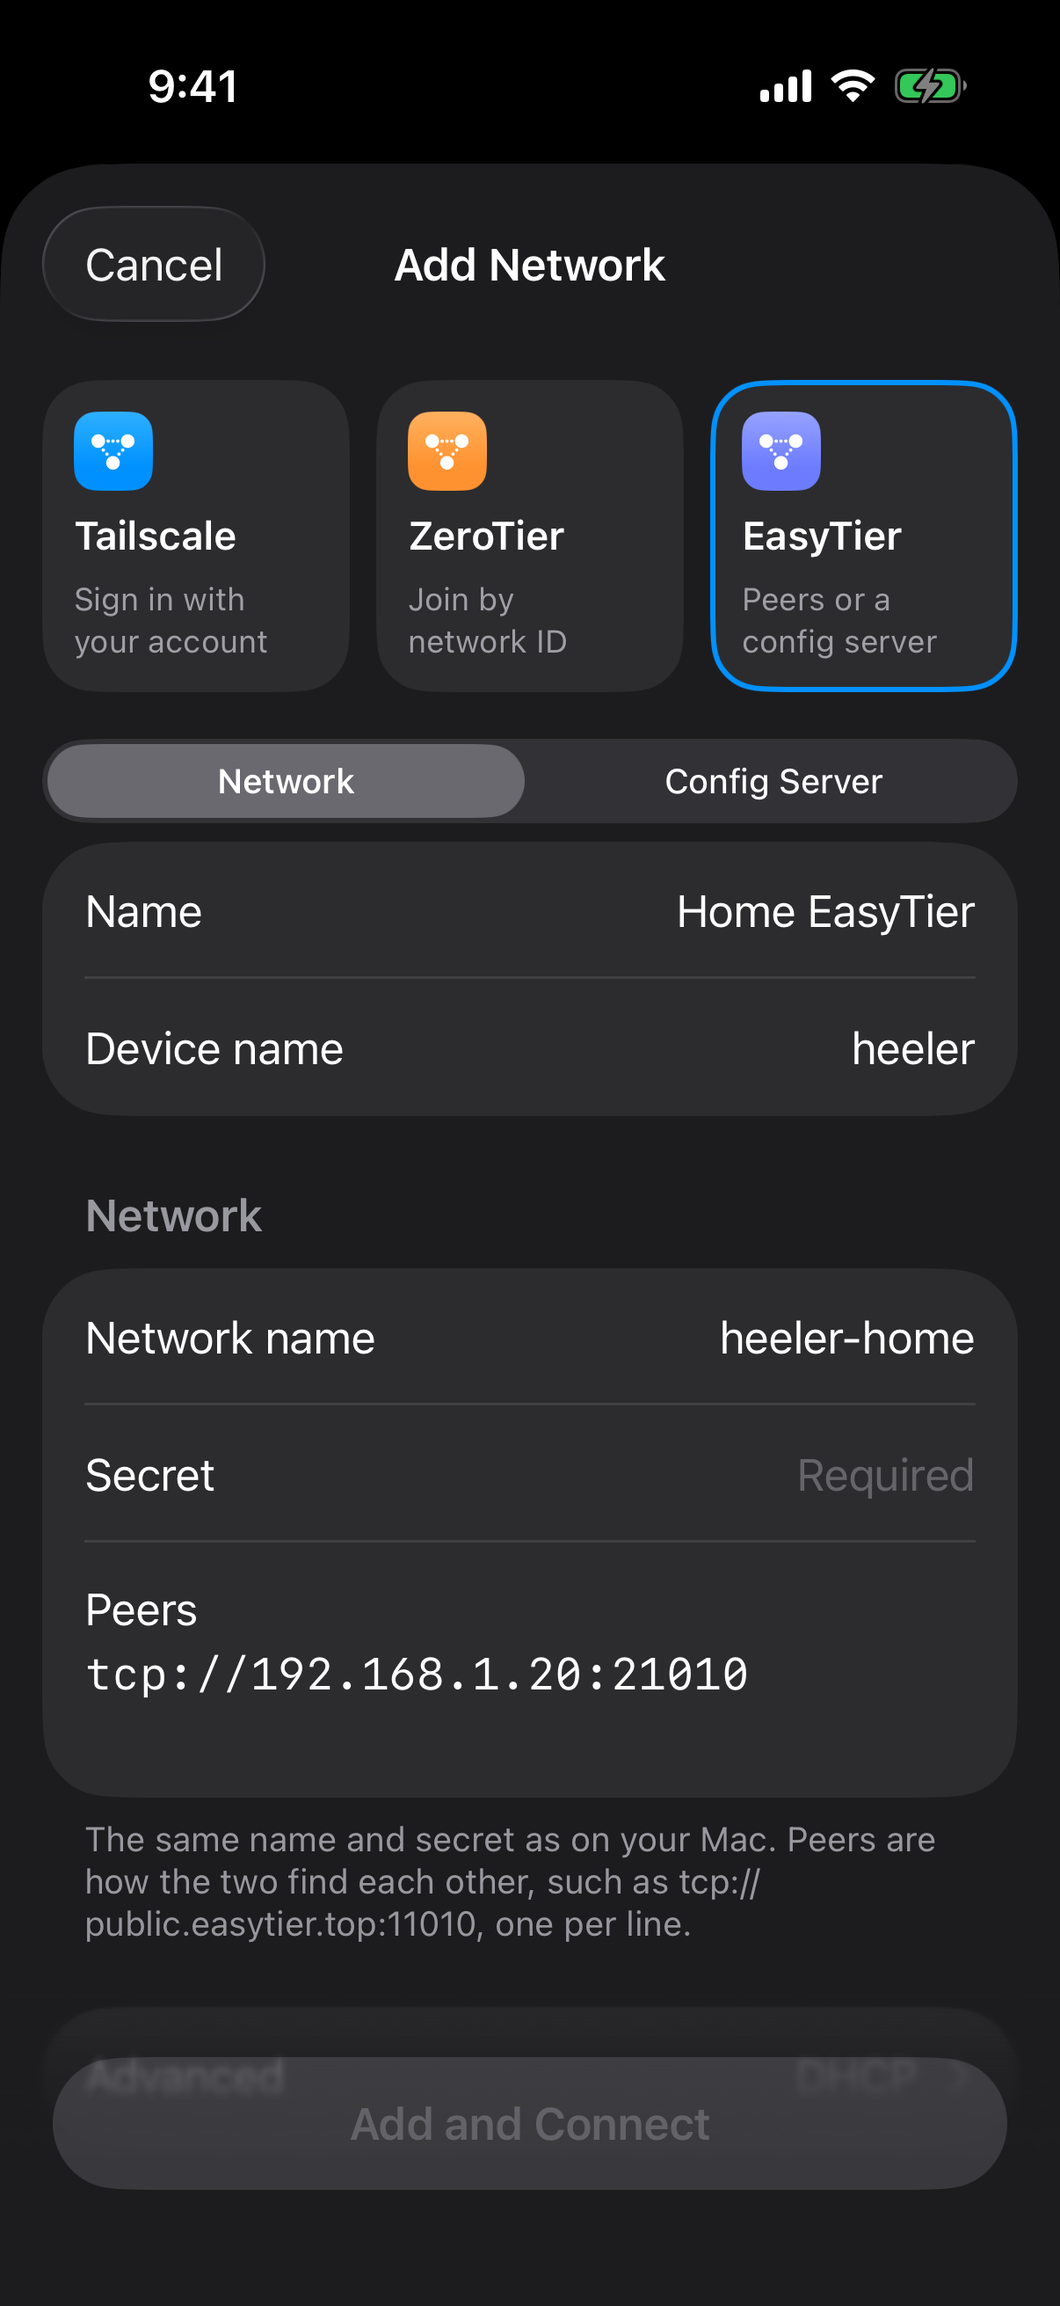
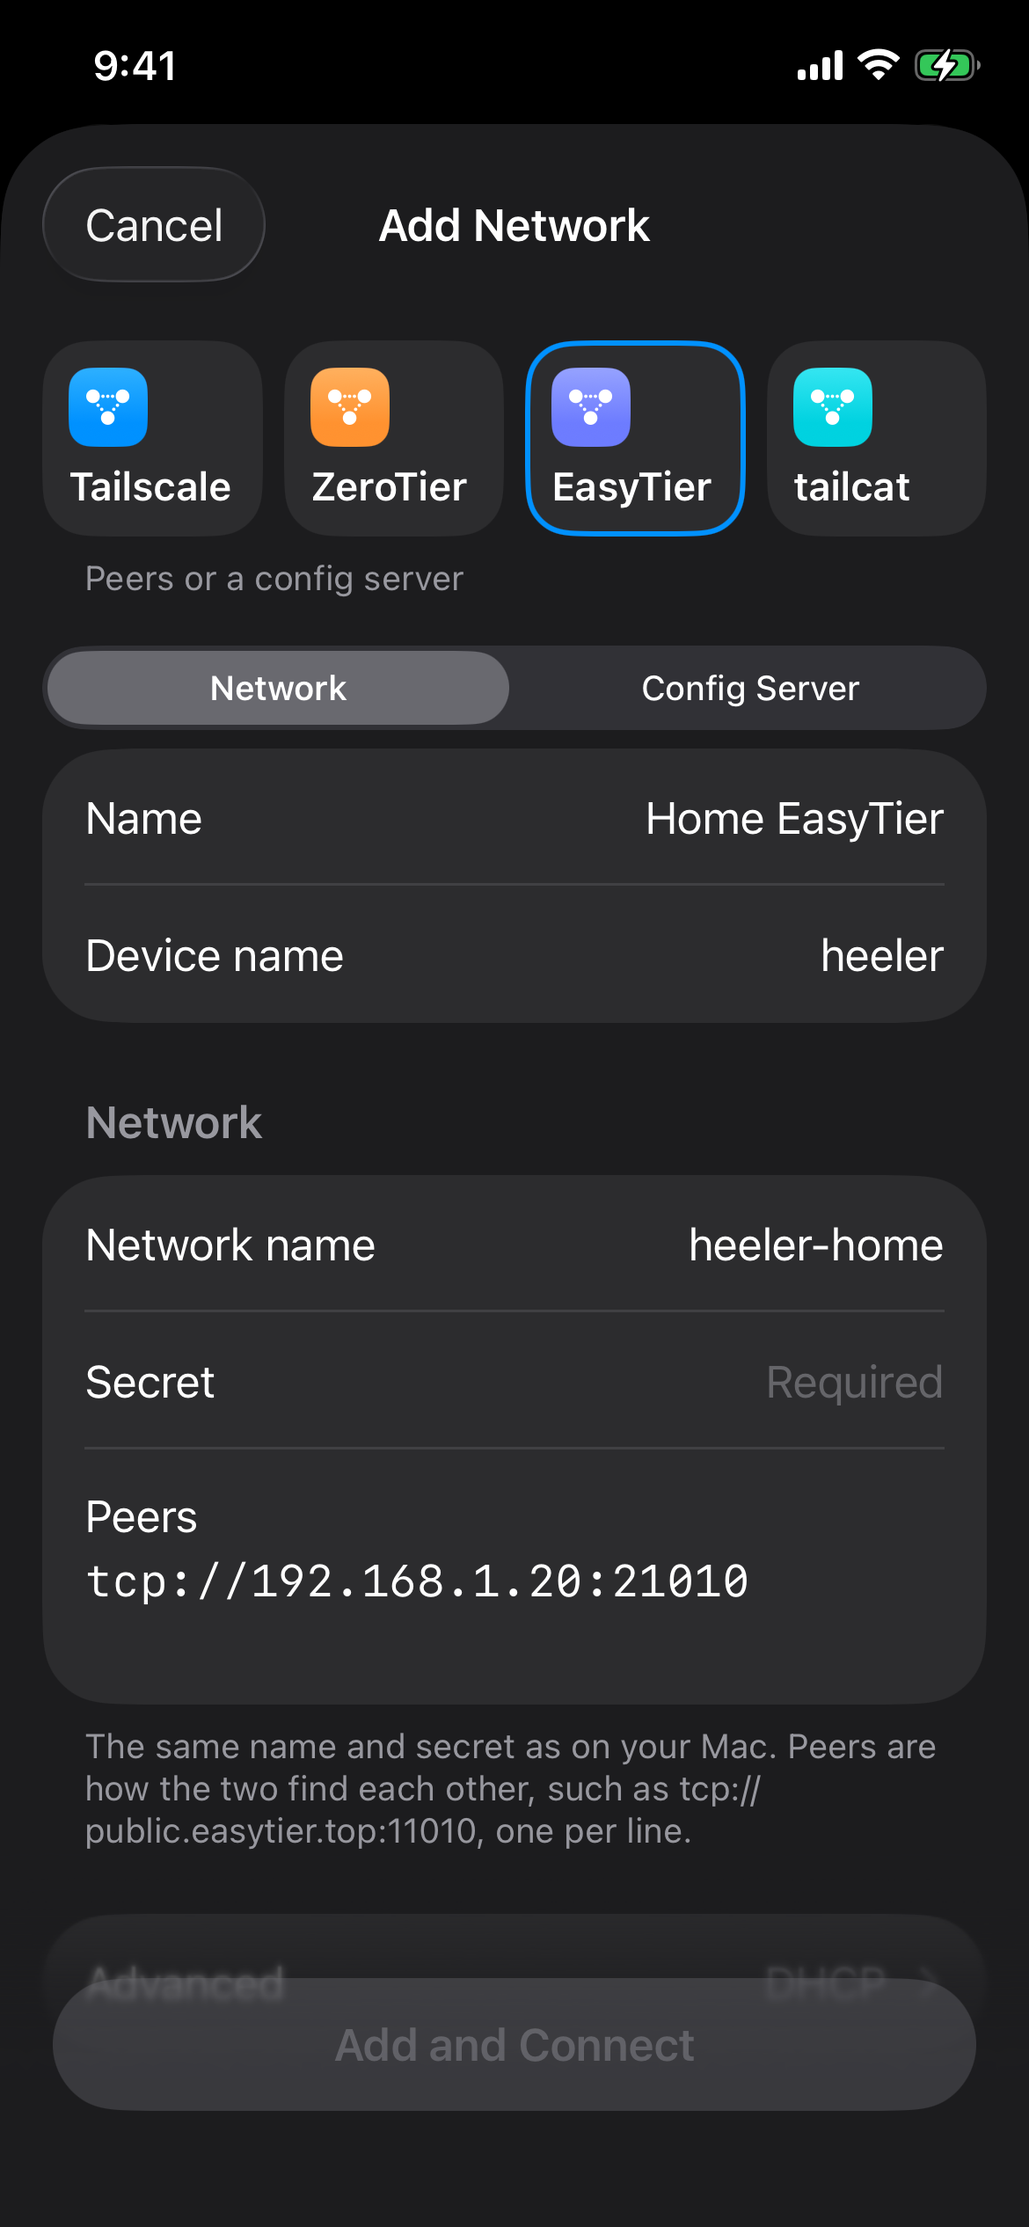
docs(guides): add a tailcat setup guide
The four existing Add Network screenshots are recaptured with the
picker's new single row of kinds, beside a new one of the tailcat form.

refs #716

diff --git a/docs/agents/overlay-network-guides.md b/docs/agents/overlay-network-guides.md
@@ -18,6 +18,7 @@ The tutorials were written on **2026-10-09** against PR #426 at `eb52bf0c`. The 
 | ZeroTier | Controller-less IPv6 ad-hoc network, Simulator SSH, herdr, terminal, recovery | Central enrollment, custom Planet and Moons, private controller, overlapping IPv4 |
 | EasyTier | Network and encrypted Config Server, Simulator SSH, herdr, terminal, peer restart | Physical phone, eight-network limit, overlapping assignments, WSS failures |
 | Cloudflare Tunnel | Physical iPhone over cellular: connector **Healthy**, a **Tunnel CIDR** route, Cloudflare One Agent with Split Tunnels in **Include** mode, a **Direct** Host route, herdr inventory and a terminal, background recovery | The VPS appendix, Gateway network policies, a route wider than one `/32`, two Hosts on one phone, the iPad, Cloudflare One Agent release drift |
+| tailcat | Simulator through a real `tailcat serve` on the same Mac: the Add Network form, a **Direct** path, Host onboarding from the tunnel's server row, SSH host-key trust, herdr detection, a terminal, background recovery, recovery after `tailcat serve` restarts | Physical phone, cellular, a relayed-only path, servers other than v0.7.0 |
 
 Tailscale commands were checked against official documentation and **1.104.1** CLI help on **2026-10-09**. ZeroTier's guide was checked against Heeler's source and its linked official documentation on the same date.
 
@@ -89,9 +90,55 @@ Not covered:
 - Cloudflare One Agent releases: one device, and no version number recorded, so
   treat the guide as a 2026-10-23 snapshot of that app's UI.
 
+### tailcat guide (2026-11-15)
+
+The [tailcat guide](../guides/tailcat.md) was written with the feature, for
+issue #716 on base `4025213b`, before any release carried it. Its address is a
+credential: keep real addresses out of logs, reports, screenshots and this
+record.
+
+Checked on an iPhone 17e Simulator (iOS 26.5) against `tailcat serve` built
+from the **v0.7.0** source on the same Mac, serving the port of an isolated
+sshd and herdr:
+
+- `tailcat genkey --key=default --fixed-region` saves a key, after which
+  `tailcat serve` prints `Server listening with saved key "default"` and the
+  same address on every start. `tailcat genkey --delete --key=default` removes
+  the key, and `genkey` then makes a new one.
+- A tunnel added through the Add Network form, its address typed on the
+  software keyboard, connected: **Relayed** at first, **Direct** with a
+  round-trip time seconds later. **Add** on its server row opened the Host
+  form with the address and network filled in. **Connect** asked to trust the
+  sshd's fingerprint under the tunnel's `.tailcat` name, detected herdr, and
+  added the Host.
+- A terminal on that Host ran a command and printed its output. With Heeler
+  behind the Settings app, the log showed the tailcat node stopping 19 seconds
+  later; back in front, the same terminal ran another command with nothing
+  tapped. (The Simulator's Home button did not background the app when
+  pressed through `idb`; launching another app did.)
+- With `tailcat serve` stopped, the Host went to **Reconnecting…** about 70
+  seconds later, when the SSH keepalive gave up, and showed "The tailcat
+  server did not answer". Started again with the same saved key, it was
+  **Connected** within 10 seconds, with nothing tapped.
+- A Host whose route named another address stopped with "A tailcat tunnel only
+  reaches the machine running tailcat serve", and **Use the Tunnel's Address**
+  in its route repaired it.
+- Through the same tunnel, a port `tailcat serve` did not expose failed at the
+  dial deadline with "answered, but not on port".
+
+Not covered: a physical phone, cellular, a path that stays **Relayed**,
+pasting the address (the Simulator shares the Mac's clipboard, so it was
+typed), an install through Homebrew (its formula was at 0.7.0), and servers
+other than v0.7.0.
+
+iOS takes a name above a filled secure field for a sign-in form and offers to
+save the address as a password when the form closes. The form empties the
+field as it closes, which stopped the prompt on iOS 26.5; a one-time-code
+content type did not. Check for the prompt again on a new iOS release.
+
 ## Screenshots
 
-The guides' screenshots are unedited Add Network forms from build `137a4aa3`, except the EasyTier Config Server form, recaptured in `f5f35846` after its Server prompt and footer changed. All were captured on **2026-10-10** on an iPhone 17 Pro Simulator (iOS 26.5), in dark appearance at the default text size. Names, addresses, and the server URL are examples. Credentials are blank, and the Machine ID belongs to a disposable Simulator.
+The five Add Network form screenshots are unedited captures of the #716 candidate, taken on **2026-11-15** on an iPhone 17e Simulator (iOS 26.5) in dark appearance at the default text size, after tailcat joined the kind picker and its cards lost their descriptions. The Overlay Networks list and the Tailscale machines list are older captures from **2026-10-10** and show neither change. Names, addresses, and the server URL are examples. Credentials are blank, and the Machine ID belongs to a disposable Simulator.
 
 When labels or behavior change, update the tutorial and its screenshot together. Keep required fields in the text so the steps work without images.
 
@@ -105,4 +152,5 @@ When labels or behavior change, update the tutorial and its screenshot together.
   and [arbitrary TCP](https://developers.cloudflare.com/cloudflare-one/access-controls/applications/non-http/cloudflared-authentication/arbitrary-tcp/) pages.
 - ZeroTier: [ZeroTierNetworkNode](../../Packages/HeelerOverlay/Sources/HeelerOverlay/ZeroTierNetworkNode.swift) and [ZeroTierRuntime](../../Packages/HeelerOverlay/Sources/HeelerOverlay/ZeroTierRuntime.swift). Recheck the guide's custom-root startup limitation when they change.
 - EasyTier: [configuration URL contract](../../Packages/HeelerOverlay/Sources/HeelerOverlay/OverlayNode.swift) and [overlay package documentation](../../Packages/HeelerOverlay/README.md).
+- tailcat: [guide](../guides/tailcat.md), [TailcatNode](../../Packages/HeelerOverlay/Sources/HeelerOverlay/TailcatNode.swift), the route form's tunnel address in [OverlayPeerChoice](../../Sources/Heeler/Hosts/OverlayPeerChoice.swift), [ADR 0048](../adr/0048-a-tailcat-tunnel-is-an-overlay-network-with-one-peer.md), and tailcat's [README](https://github.com/tailscale/tailcat/blob/main/README.md). Recheck the guide's commands when the natives release moves to another tailcat version.
 - Architecture and ownership: [ADR 0021](../adr/0021-in-process-overlay-networks.md) and [source map](navigation.md).

diff --git a/docs/guides/tailcat.md b/docs/guides/tailcat.md
@@ -1,0 +1,94 @@
+# Connect Heeler through tailcat
+
+Use this guide to reach the Mac that runs herdr through [tailcat](https://github.com/tailscale/tailcat): a tunnel to one machine, with no account and no network to manage. The Mac runs `tailcat serve` and prints an address; Heeler connects with that address, so the phone needs no other app or VPN.
+
+You need a Heeler version that offers **tailcat** in **Settings > Overlay Networks > Add Network**.
+
+## Before you start
+
+- On the Mac, finish [Prepare the Host](overlay-networks.md#prepare-the-host): Remote Login, herdr, a sign-in method, and the Mac's SSH fingerprint.
+- You need [Homebrew](https://brew.sh/) on the Mac, or another way to [install tailcat](https://github.com/tailscale/tailcat/blob/main/INSTALL.md).
+- Keep the Mac awake during setup.
+
+Treat the tailcat address like a password. Anyone who has it can reach the port you serve, although SSH still asks for your key or password. Move it to the phone privately, for example with Universal Clipboard or AirDrop, and never post it.
+
+## 1. Mac: install tailcat and save a key
+
+```sh
+brew install tailcat
+tailcat genkey --key=default --fixed-region
+```
+
+`genkey` saves a key on the Mac and prints its address, one long line starting with `tc`. With a saved key the address stays the same every time `tailcat serve` starts. Without one, each start prints a new address that you would have to paste into Heeler again.
+
+## 2. Mac: serve the SSH port
+
+```sh
+tailcat serve 22
+```
+
+Use your Mac's SSH port if it is not `22`. The command prints the address again and keeps running:
+
+```text
+# 🐈 Server listening with saved key "default": tc…
+```
+
+The tunnel exists only while this command runs, so leave it in a terminal that stays open, such as a herdr pane. Copy the whole address.
+
+**It worked if** the line says `saved key "default"`. If it says `new address`, step 1 did not save a key.
+
+## 3. Heeler: add the tunnel
+
+1. In Heeler, open **Settings > Overlay Networks > Add Network** and choose **tailcat**.
+2. Enter a **Name**, such as the Mac's name, and paste the address into **Address**. Heeler hides it like a password and says below the field whether it is a tailcat address.
+
+   <a href="images/overlay-networks/tailcat-form.png"><img src="images/overlay-networks/tailcat-form.png" width="300" alt="tailcat form with Name and an empty Address field"></a>
+
+3. Tap **Add and Connect**.
+
+**It worked if** the tunnel shows **Connected**, with **Direct** or **Relayed** and a time in milliseconds. **Relayed** means the traffic goes through one of tailcat's relays, which is slower and still encrypted end to end.
+
+## 4. Heeler: add the Mac as a Host
+
+Open the tunnel in **Settings > Overlay Networks** and tap **Add** next to its server, or tap **+** in **Hosts**, open **More Options**, and set **Network** to the tunnel. Then follow [Connect from Heeler](overlay-networks.md#connect-from-heeler) with these values:
+
+| Field | Value |
+| --- | --- |
+| Address | Filled in by Heeler: a name ending in `.tailcat`. Leave it as it is |
+| User | Your Mac username |
+| Network (in More Options) | The tunnel you just added |
+| Port (in More Options) | The port you served, normally `22` |
+| Jump Host (in More Options) | Blank |
+| Authentication | The sign-in method you picked |
+
+A tailcat tunnel reaches only the machine running `tailcat serve`, so the address is not an IP address and you cannot type another machine's. Then tap **Connect**.
+
+Tap **Trust and Continue** only if the fingerprint matches, add the Host with the Servers you want checked, then [verify the connection](overlay-networks.md#verify-the-connection).
+
+## Troubleshooting
+
+| Problem | What to do |
+| --- | --- |
+| No **tailcat** under **Add Network** | Update Heeler; your version does not have it yet. |
+| **Add and Connect** stays grey, or "This is not a tailcat address" | Copy the whole address, from `tc` to the end of the line. |
+| "The tailcat server did not answer" or **The server is not answering** | Check that `tailcat serve` is still running on the Mac and that the Mac is awake. If it printed a new address, open the tunnel, choose **…** > **Edit**, and paste it. |
+| "The tailcat server answered, but not on port …" | The Host's **Port** must be one that `tailcat serve` was started with. |
+| "This address has no pre-shared key" | The key was made with `--psk=false`. Delete it and run step 1 again without that flag. |
+| "A tailcat tunnel only reaches the machine running tailcat serve" | Open the Host's route and tap **Use the Tunnel's Address**. To reach another machine, run `tailcat serve` there and add a tunnel for it. |
+| Connected, but SSH login fails | Check the username, Remote Login access, and the key or password. |
+| The tunnel stops after you leave Heeler | Expected, about 20 seconds after you leave. Hosts reconnect it when you return. |
+
+## Stop using the tunnel
+
+Turn off the tunnel's switch to disconnect it; its settings stay. To remove it, move or remove its Hosts first, then open the tunnel and choose **…** > **Delete Network**.
+
+On the Mac, press **Control-C** in the terminal running `tailcat serve`. Deleting the tunnel in Heeler does not revoke the address. To make it useless, delete the saved key and make a new one:
+
+```sh
+tailcat genkey --delete --key=default
+tailcat genkey --key=default --fixed-region
+```
+
+Commands were checked against tailcat v0.7.0 on 2026-11-15.
+
+Maintainers: see the [guide maintenance record](../agents/overlay-network-guides.md).

diff --git a/docs/guides/overlay-networks.md b/docs/guides/overlay-networks.md
@@ -1,10 +1,10 @@
 # Connect Heeler through an Overlay Network
 
-Use Tailscale, ZeroTier, or EasyTier to reach the Mac running herdr when you can't connect to it directly, for example from cellular. These guides cover a Mac and Heeler on iPhone or iPad.
+Use Tailscale, ZeroTier, EasyTier, or tailcat to reach the Mac running herdr when you can't connect to it directly, for example from cellular. These guides cover a Mac and Heeler on iPhone or iPad.
 
 You need a Heeler version with **Settings > Overlay Networks**.
 
-Heeler joins the network by itself, so the phone needs no Tailscale, ZeroTier, or EasyTier app and no VPN setting. The Mac needs the provider's software, Remote Login (SSH), and herdr. You still log in to the Mac over SSH as usual.
+Heeler joins the network by itself, so the phone needs no Tailscale, ZeroTier, EasyTier, or tailcat app and no VPN setting. The Mac needs the provider's software, Remote Login (SSH), and herdr. You still log in to the Mac over SSH as usual.
 
 ## Choose a setup
 
@@ -16,6 +16,7 @@ Prepare the Host below, then follow one provider guide. It sends you to [Connect
 | [Tailscale without a VPN on the Mac (advanced)](tailscale.md#run-tailscale-without-a-vpn-on-the-mac-advanced) | A Tailscale account and Homebrew | Works |
 | [ZeroTier](zerotier.md) | A ZeroTier Central account and ZeroTier One on the Mac | Works |
 | [EasyTier](easytier.md) | No account; EasyTier on the Mac from Terminal | Needs a relay you run, such as a small VPS, or a Mac reachable from the internet ([how](easytier.md#reaching-a-mac-outside-the-lan)) |
+| [tailcat](tailcat.md) | No account; `tailcat serve` on the Mac from Terminal. Reaches that one Mac | Works |
 
 If you're new to this, start with Tailscale. For a Linux or Windows machine, install the provider's client from its own documentation, then follow the same Heeler steps. Windows also needs the [Windows SSH and herdr setup](windows-setup.md).
 
@@ -34,6 +35,11 @@ Go to **Settings > Overlay Networks > Add Network**. Each provider has its own f
 | --- | --- |
 | <a href="images/overlay-networks/easytier-manual-form.png"><img src="images/overlay-networks/easytier-manual-form.png" width="260" alt="EasyTier Network form with network name, secret, and peers"></a> | <a href="images/overlay-networks/easytier-config-server-form.png"><img src="images/overlay-networks/easytier-config-server-form.png" width="260" alt="EasyTier Config Server form with a server URL and this device's Machine ID"></a> |
 | Enter the Mac's network name and secret, and add its peer address. [Network setup](easytier.md#3-add-the-network-in-heeler) | Enter the server URL, then assign a network to the Machine ID. [Config Server setup](easytier.md#2-register-heelers-device) |
+
+| tailcat |
+| --- |
+| <a href="images/overlay-networks/tailcat-form.png"><img src="images/overlay-networks/tailcat-form.png" width="260" alt="tailcat form with Name and an empty Address field"></a> |
+| Paste the address `tailcat serve` prints and tap **Add and Connect**. [tailcat setup](tailcat.md#3-heeler-add-the-tunnel) |
 
 The values shown are examples.
 
@@ -65,7 +71,7 @@ Do these steps on the Mac that runs herdr, signed in as the account Heeler will 
 
 Come here from your provider guide once the Mac and Heeler are on the same network.
 
-1. Open **Hosts** and tap **+**. Tap **More Options**, set **Network** to your saved network, fill in **Address** and **Port**, and go back. For Tailscale and EasyTier, you can instead open the network in Settings and tap **Add** next to the Mac; this pre-fills the address and network. (**Direct** means Heeler does not use the overlay network.)
+1. Open **Hosts** and tap **+**. Tap **More Options**, set **Network** to your saved network, fill in **Address** and **Port**, and go back. For Tailscale, EasyTier, and tailcat, you can instead open the network in Settings and tap **Add** next to the Mac; this pre-fills the address and network. (**Direct** means Heeler does not use the overlay network.)
 2. Fill in **User** and the sign-in method from the table below, and tap **Connect**.
 3. Tap **Trust and Continue** only if the fingerprint matches the one from the Mac.
 4. Leave the Servers you want checked, name the Host if you like, and add it. If nothing connects afterwards, open the Host, tap the Server, fix what its checks name, and tap **Run Checks Again**.
@@ -84,7 +90,7 @@ Come here from your provider guide once the Mac and Heeler are on the same netwo
 | Authentication | The sign-in method you picked |
 | Name (last step) | Any label for this Mac |
 
-To fill in the address under **More Options**, Tailscale offers **Choose from Tailnet…** (keep **IP Address** selected) and EasyTier offers **Choose from Network…**. For ZeroTier, copy the Mac's IP address from ZeroTier Central.
+To fill in the address under **More Options**, Tailscale offers **Choose from Tailnet…** (keep **IP Address** selected) and EasyTier offers **Choose from Network…**. For ZeroTier, copy the Mac's IP address from ZeroTier Central. For a tailcat tunnel, Heeler fills in the address when you choose the tunnel; it is a name ending in `.tailcat`, not an IP address.
 
 ## Verify the connection
 

diff --git a/docs/guides/host-routes.md b/docs/guides/host-routes.md
@@ -10,7 +10,7 @@ A Host can have more than one route: its LAN address for when you are at home, a
 4. To go through a Jump Host, fill in **Jump Host**. Otherwise leave it blank. See [remote access through a Jump Host](vps-jump-host-setup.md).
 5. Under **Network**, choose how this route travels:
    - **Direct** for an address this iPhone or iPad can reach on its own network, such as the Mac's LAN address or a public address.
-   - An overlay network from **Settings > Overlay Networks** for Tailscale, ZeroTier, or EasyTier (shown at the top once you have added a network). For Tailscale and EasyTier, tap **Choose from Tailnet…** or **Choose from Network…** and pick the Mac to fill in its address; for ZeroTier, type the Mac's address from ZeroTier Central. See the [Overlay Network guides](overlay-networks.md) to set one up.
+   - An overlay network from **Settings > Overlay Networks** for Tailscale, ZeroTier, EasyTier, or tailcat (shown at the top once you have added a network). For Tailscale and EasyTier, tap **Choose from Tailnet…** or **Choose from Network…** and pick the Mac to fill in its address; for ZeroTier, type the Mac's address from ZeroTier Central; for a tailcat tunnel, Heeler fills in the address itself. See the [Overlay Network guides](overlay-networks.md) to set one up.
 6. Tap **Save** at the top right, then **Save** in Edit Host.
 
 <a href="images/hosts/add-route.png"><img src="images/hosts/add-route.png" width="300" alt="New Route form with Address 192.168.1.10, port 22, Find on Local Network, an optional Jump Host field, and Network set to Direct"></a>

diff --git a/docs-site/README.md b/docs-site/README.md
@@ -187,7 +187,7 @@ repository root.
 ### Published guides
 
 `pairing`, `overlay-networks`, `tailscale`, `zerotier`, `easytier`,
-`cloudflare-tunnel`, `vps-jump-host-setup`, `vps-jump-host`, `herdr-core`,
+`tailcat`, `cloudflare-tunnel`, `vps-jump-host-setup`, `vps-jump-host`, `herdr-core`,
 `tmux`, `host-routes`, `windows-setup`, `selinux`, `chat`,
 `chat-troubleshooting`, `voice-input`, and `usage`.
 Maintainer documents in `docs/guides/` (`releasing.md`,
